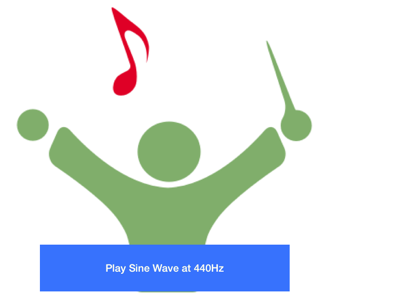
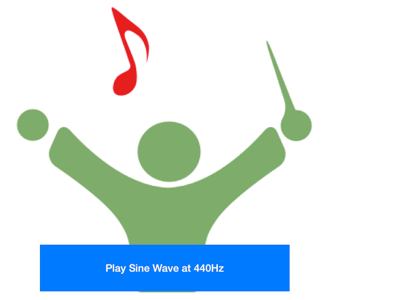
optimized images and fixed particle picture

Changed region(s): [[0.09, 0.81, 0.72, 0.99], [0.27, 0.03, 0.36, 0.33], [0.36, 0.12, 0.39, 0.18]]

diff --git a/examples/examples-index.html b/examples/examples-index.html
@@ -96,7 +96,7 @@ layout: section_index
     <article class="portfolio-item pf-ios pf-swift pf-external">
         <div class="portfolio-image">
             <a href="/blog/2015/04/07/Particles/">
-                <img src="/gallery/particles.png" alt="AudioKit Particles">
+                <img src="/gallery/particles.jpg" alt="AudioKit Particles">
             </a>
         </div>
         <div class="portfolio-desc">
